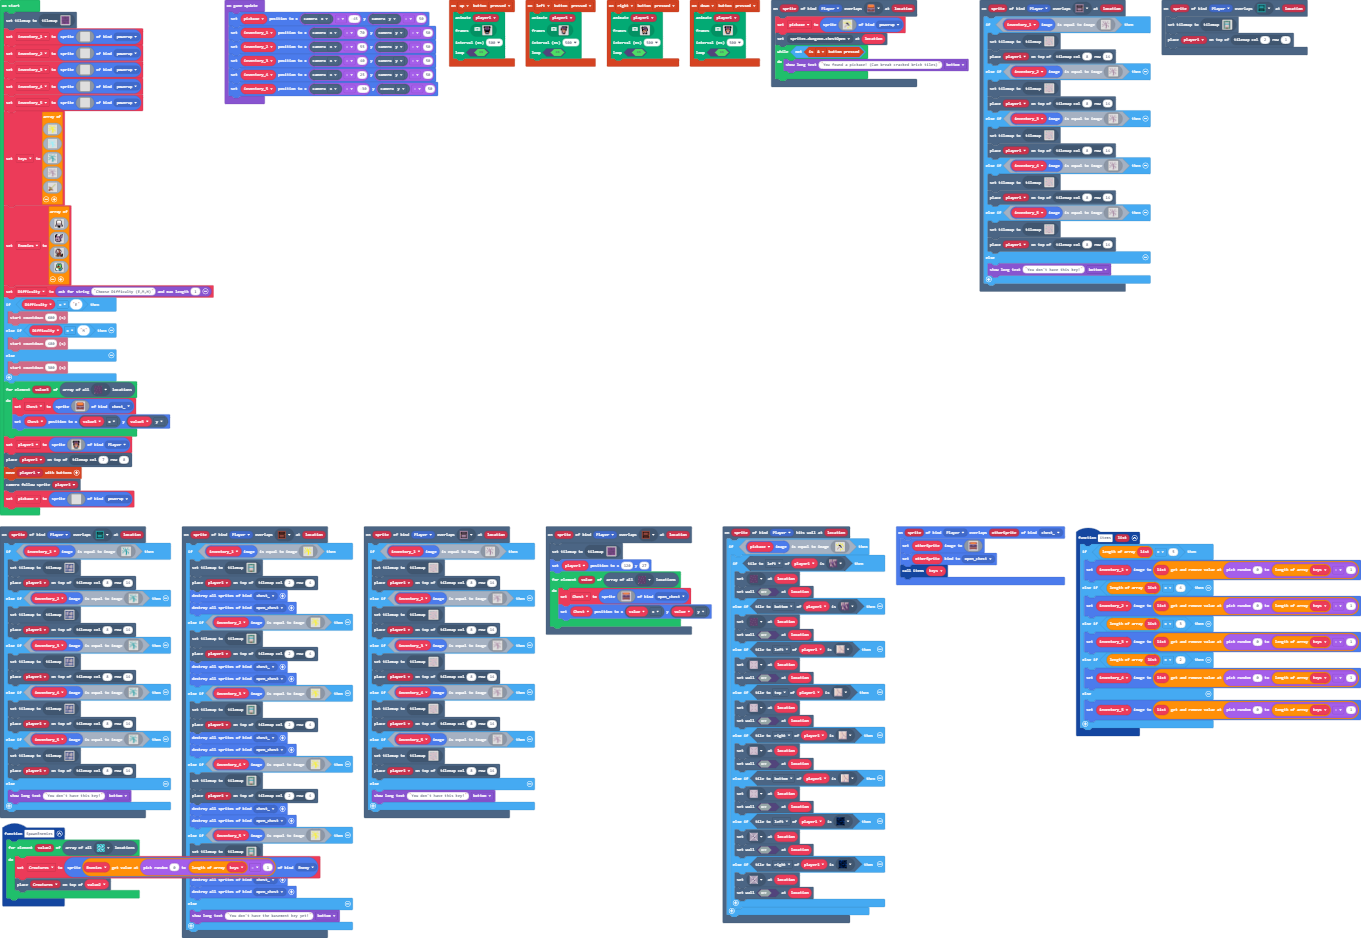
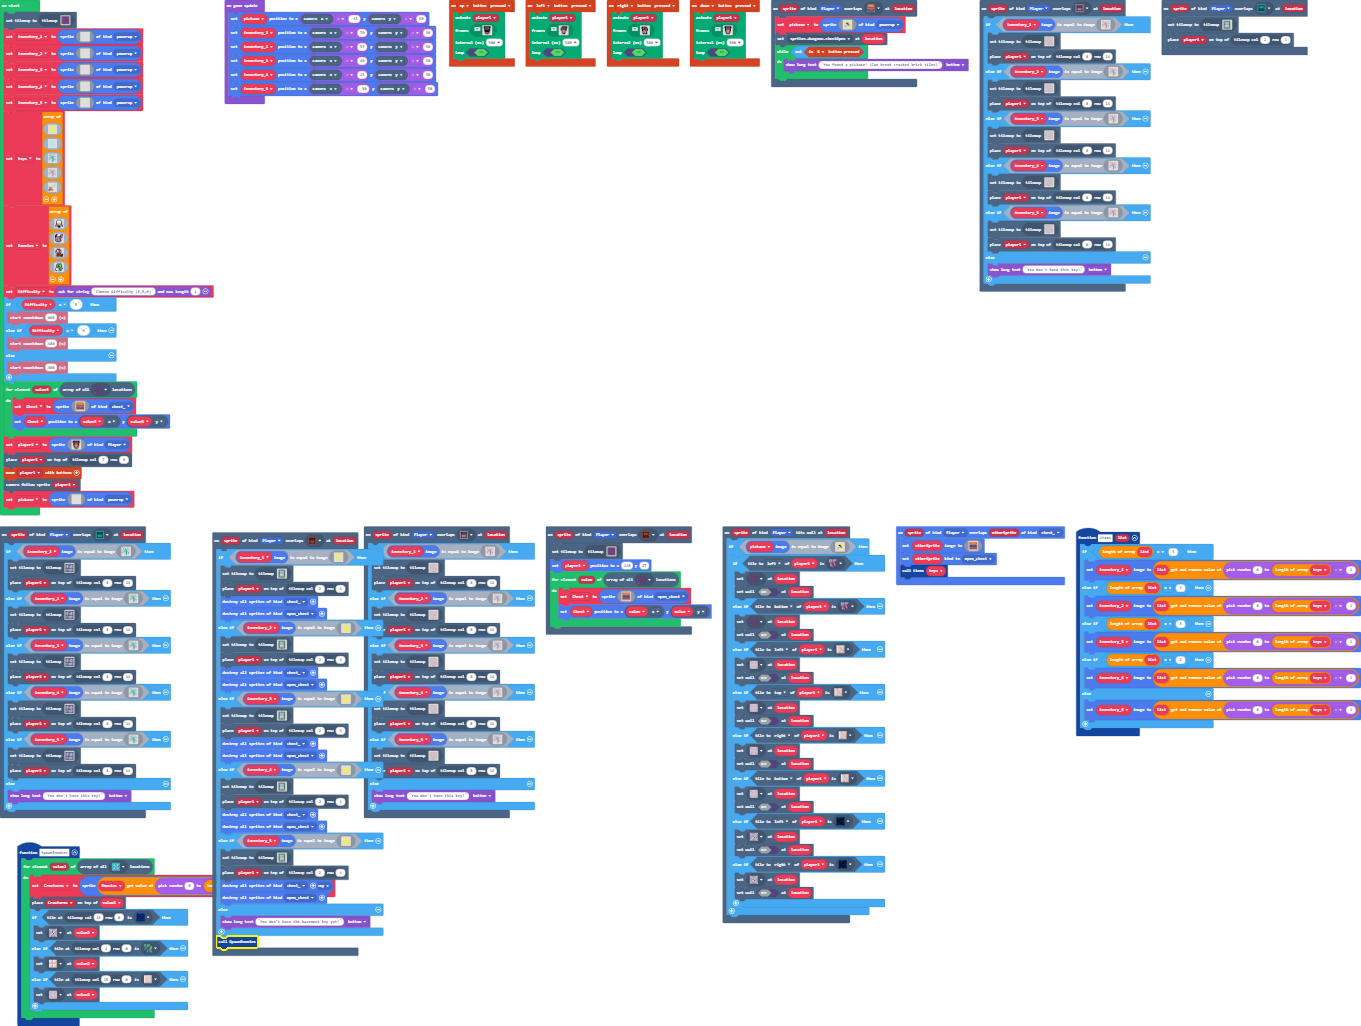
Update main.blocks, main.ts, tilemap.g.jres, tilemap.g.ts

diff --git a/tilemap.g.ts b/tilemap.g.ts
@@ -1517,6 +1517,63 @@ namespace myTiles {
 . . . . . . . . . . . . . . . . 
 . . . . . . . . . . . . . . . . 
 `, [myTiles.transparency16], TileScale.Sixteen);
+            case "level79":
+            case "level79":return tiles.createTilemap(hex`1000100000000000000000000000000000000000000000000000000000000000000000000000000000000000000000000000000000000000000000000000000000000000000000000000000000000000000000000000000000000000000000000000000000000000000000000000000000000000000000000000000000000000000000000000000000000000000000000000000000000000000000000000000000000000000000000000000000000000000000000000000000000000000000000000000000000000000000000000000000000000000000000000000000000000000000000000000000000000000000000000000000000000000000000000000000000000`, img`
+. . . . . . . . . . . . . . . . 
+. . . . . . . . . . . . . . . . 
+. . . . . . . . . . . . . . . . 
+. . . . . . . . . . . . . . . . 
+. . . . . . . . . . . . . . . . 
+. . . . . . . . . . . . . . . . 
+. . . . . . . . . . . . . . . . 
+. . . . . . . . . . . . . . . . 
+. . . . . . . . . . . . . . . . 
+. . . . . . . . . . . . . . . . 
+. . . . . . . . . . . . . . . . 
+. . . . . . . . . . . . . . . . 
+. . . . . . . . . . . . . . . . 
+. . . . . . . . . . . . . . . . 
+. . . . . . . . . . . . . . . . 
+. . . . . . . . . . . . . . . . 
+`, [myTiles.transparency16], TileScale.Sixteen);
+            case "level80":
+            case "level80":return tiles.createTilemap(hex`1000100000000000000000000000000000000000000000000000000000000000000000000000000000000000000000000000000000000000000000000000000000000000000000000000000000000000000000000000000000000000000000000000000000000000000000000000000000000000000000000000000000000000000000000000000000000000000000000000000000000000000000000000000000000000000000000000000000000000000000000000000000000000000000000000000000000000000000000000000000000000000000000000000000000000000000000000000000000000000000000000000000000000000000000000000000000000`, img`
+. . . . . . . . . . . . . . . . 
+. . . . . . . . . . . . . . . . 
+. . . . . . . . . . . . . . . . 
+. . . . . . . . . . . . . . . . 
+. . . . . . . . . . . . . . . . 
+. . . . . . . . . . . . . . . . 
+. . . . . . . . . . . . . . . . 
+. . . . . . . . . . . . . . . . 
+. . . . . . . . . . . . . . . . 
+. . . . . . . . . . . . . . . . 
+. . . . . . . . . . . . . . . . 
+. . . . . . . . . . . . . . . . 
+. . . . . . . . . . . . . . . . 
+. . . . . . . . . . . . . . . . 
+. . . . . . . . . . . . . . . . 
+. . . . . . . . . . . . . . . . 
+`, [myTiles.transparency16], TileScale.Sixteen);
+            case "level81":
+            case "level81":return tiles.createTilemap(hex`1000100000000000000000000000000000000000000000000000000000000000000000000000000000000000000000000000000000000000000000000000000000000000000000000000000000000000000000000000000000000000000000000000000000000000000000000000000000000000000000000000000000000000000000000000000000000000000000000000000000000000000000000000000000000000000000000000000000000000000000000000000000000000000000000000000000000000000000000000000000000000000000000000000000000000000000000000000000000000000000000000000000000000000000000000000000000000`, img`
+. . . . . . . . . . . . . . . . 
+. . . . . . . . . . . . . . . . 
+. . . . . . . . . . . . . . . . 
+. . . . . . . . . . . . . . . . 
+. . . . . . . . . . . . . . . . 
+. . . . . . . . . . . . . . . . 
+. . . . . . . . . . . . . . . . 
+. . . . . . . . . . . . . . . . 
+. . . . . . . . . . . . . . . . 
+. . . . . . . . . . . . . . . . 
+. . . . . . . . . . . . . . . . 
+. . . . . . . . . . . . . . . . 
+. . . . . . . . . . . . . . . . 
+. . . . . . . . . . . . . . . . 
+. . . . . . . . . . . . . . . . 
+. . . . . . . . . . . . . . . . 
+`, [myTiles.transparency16], TileScale.Sixteen);
         }
         return null;
     })

diff --git a/main.ts b/main.ts
@@ -247,11 +247,19 @@ scene.onOverlapTile(SpriteKind.Player, assets.tile`myTile`, function (sprite, lo
     } else {
         game.showLongText("You don't have the basement key yet!", DialogLayout.Bottom)
     }
+    SpawnEnemies()
 })
 function SpawnEnemies () {
     for (let value2 of tiles.getTilesByType(sprites.dungeon.collectibleInsignia)) {
         Creatures = sprites.create(Enemies[randint(0, keys.length - 1)], SpriteKind.Enemy)
         tiles.placeOnTile(Creatures, value2)
+        if (tiles.tileAtLocationEquals(tiles.getTileLocation(15, 0), assets.tile`myTile4`)) {
+            tiles.setTileAt(value2, assets.tile`myTile3`)
+        } else if (tiles.tileAtLocationEquals(tiles.getTileLocation(4, 0), sprites.dungeon.greenOuterNorthEast)) {
+            tiles.setTileAt(value2, sprites.dungeon.floorLight0)
+        } else if (tiles.tileAtLocationEquals(tiles.getTileLocation(15, 0), sprites.dungeon.floorLight2)) {
+            tiles.setTileAt(value2, assets.tile`myTile1`)
+        }
     }
 }
 scene.onOverlapTile(SpriteKind.Player, assets.tile`myTile7`, function (sprite, location) {
